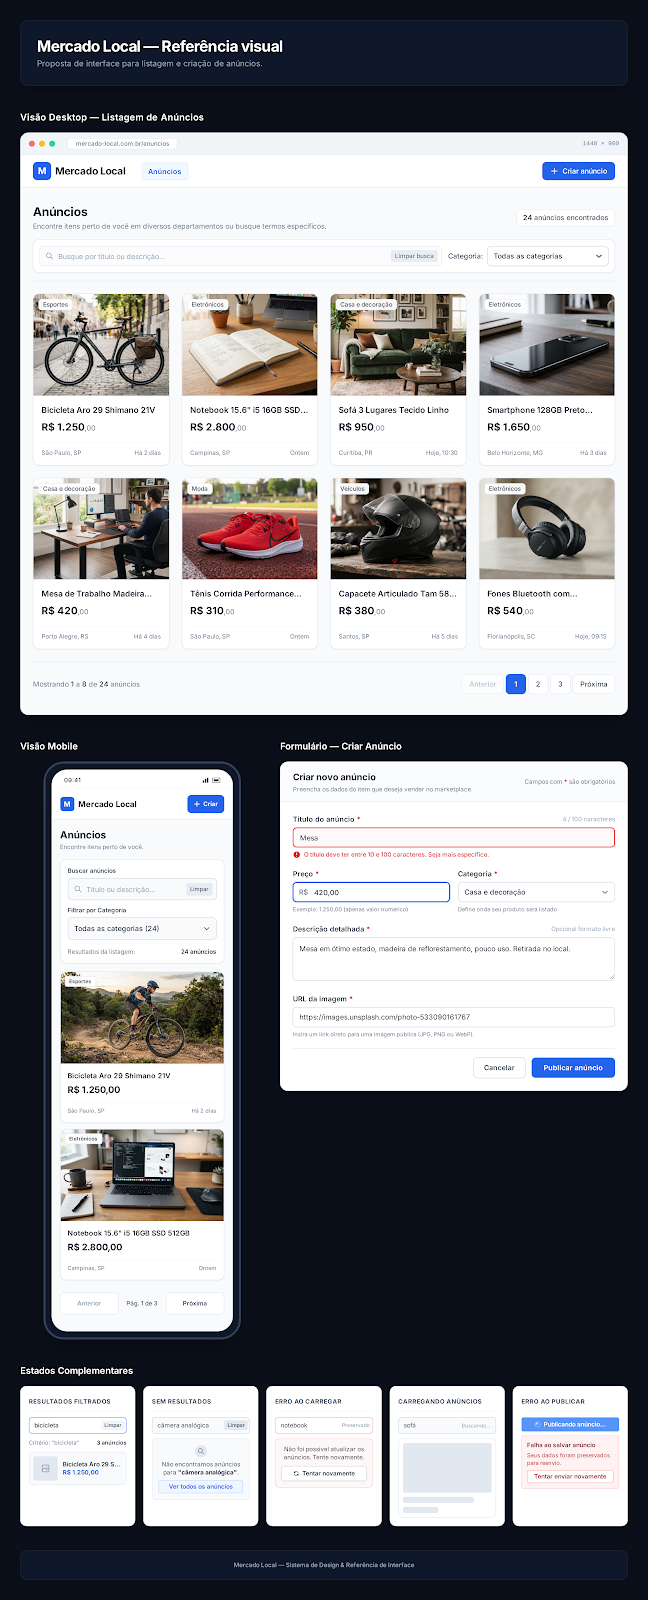
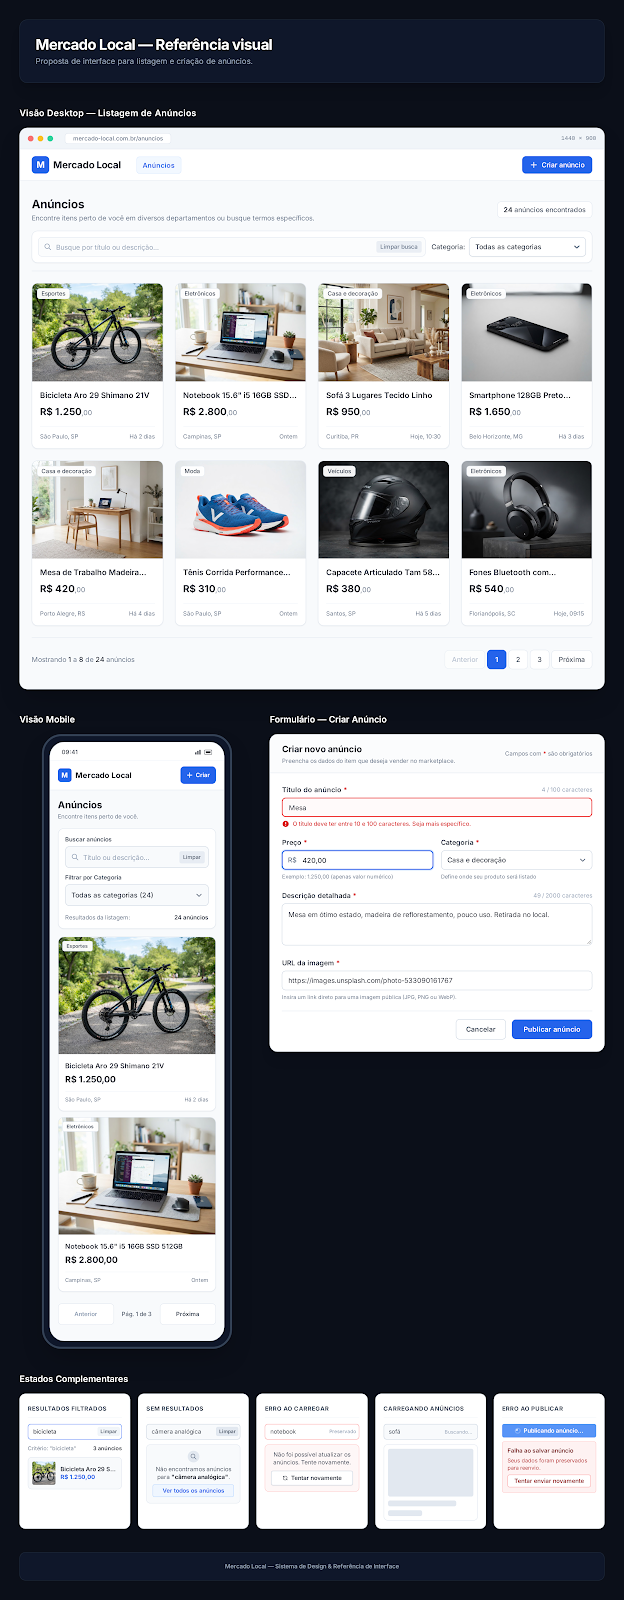
feat(frontend): atualiza seed com imagens com erro e handoff

Changed region(s): [[0.0304, 0.0, 0.9744, 0.9688]]

diff --git a/frontend/api-mock/API.md b/frontend/api-mock/API.md
@@ -152,5 +152,5 @@ curl -X POST http://localhost:8788/v1/ads \
 
 ## Observações
 
-- As imagens do seed usam `picsum.photos` e exigem acesso à internet.
+- As imagens do seed são URLs externas e exigem acesso à internet.
 - Os testes do mock rodam com `node --test`.
